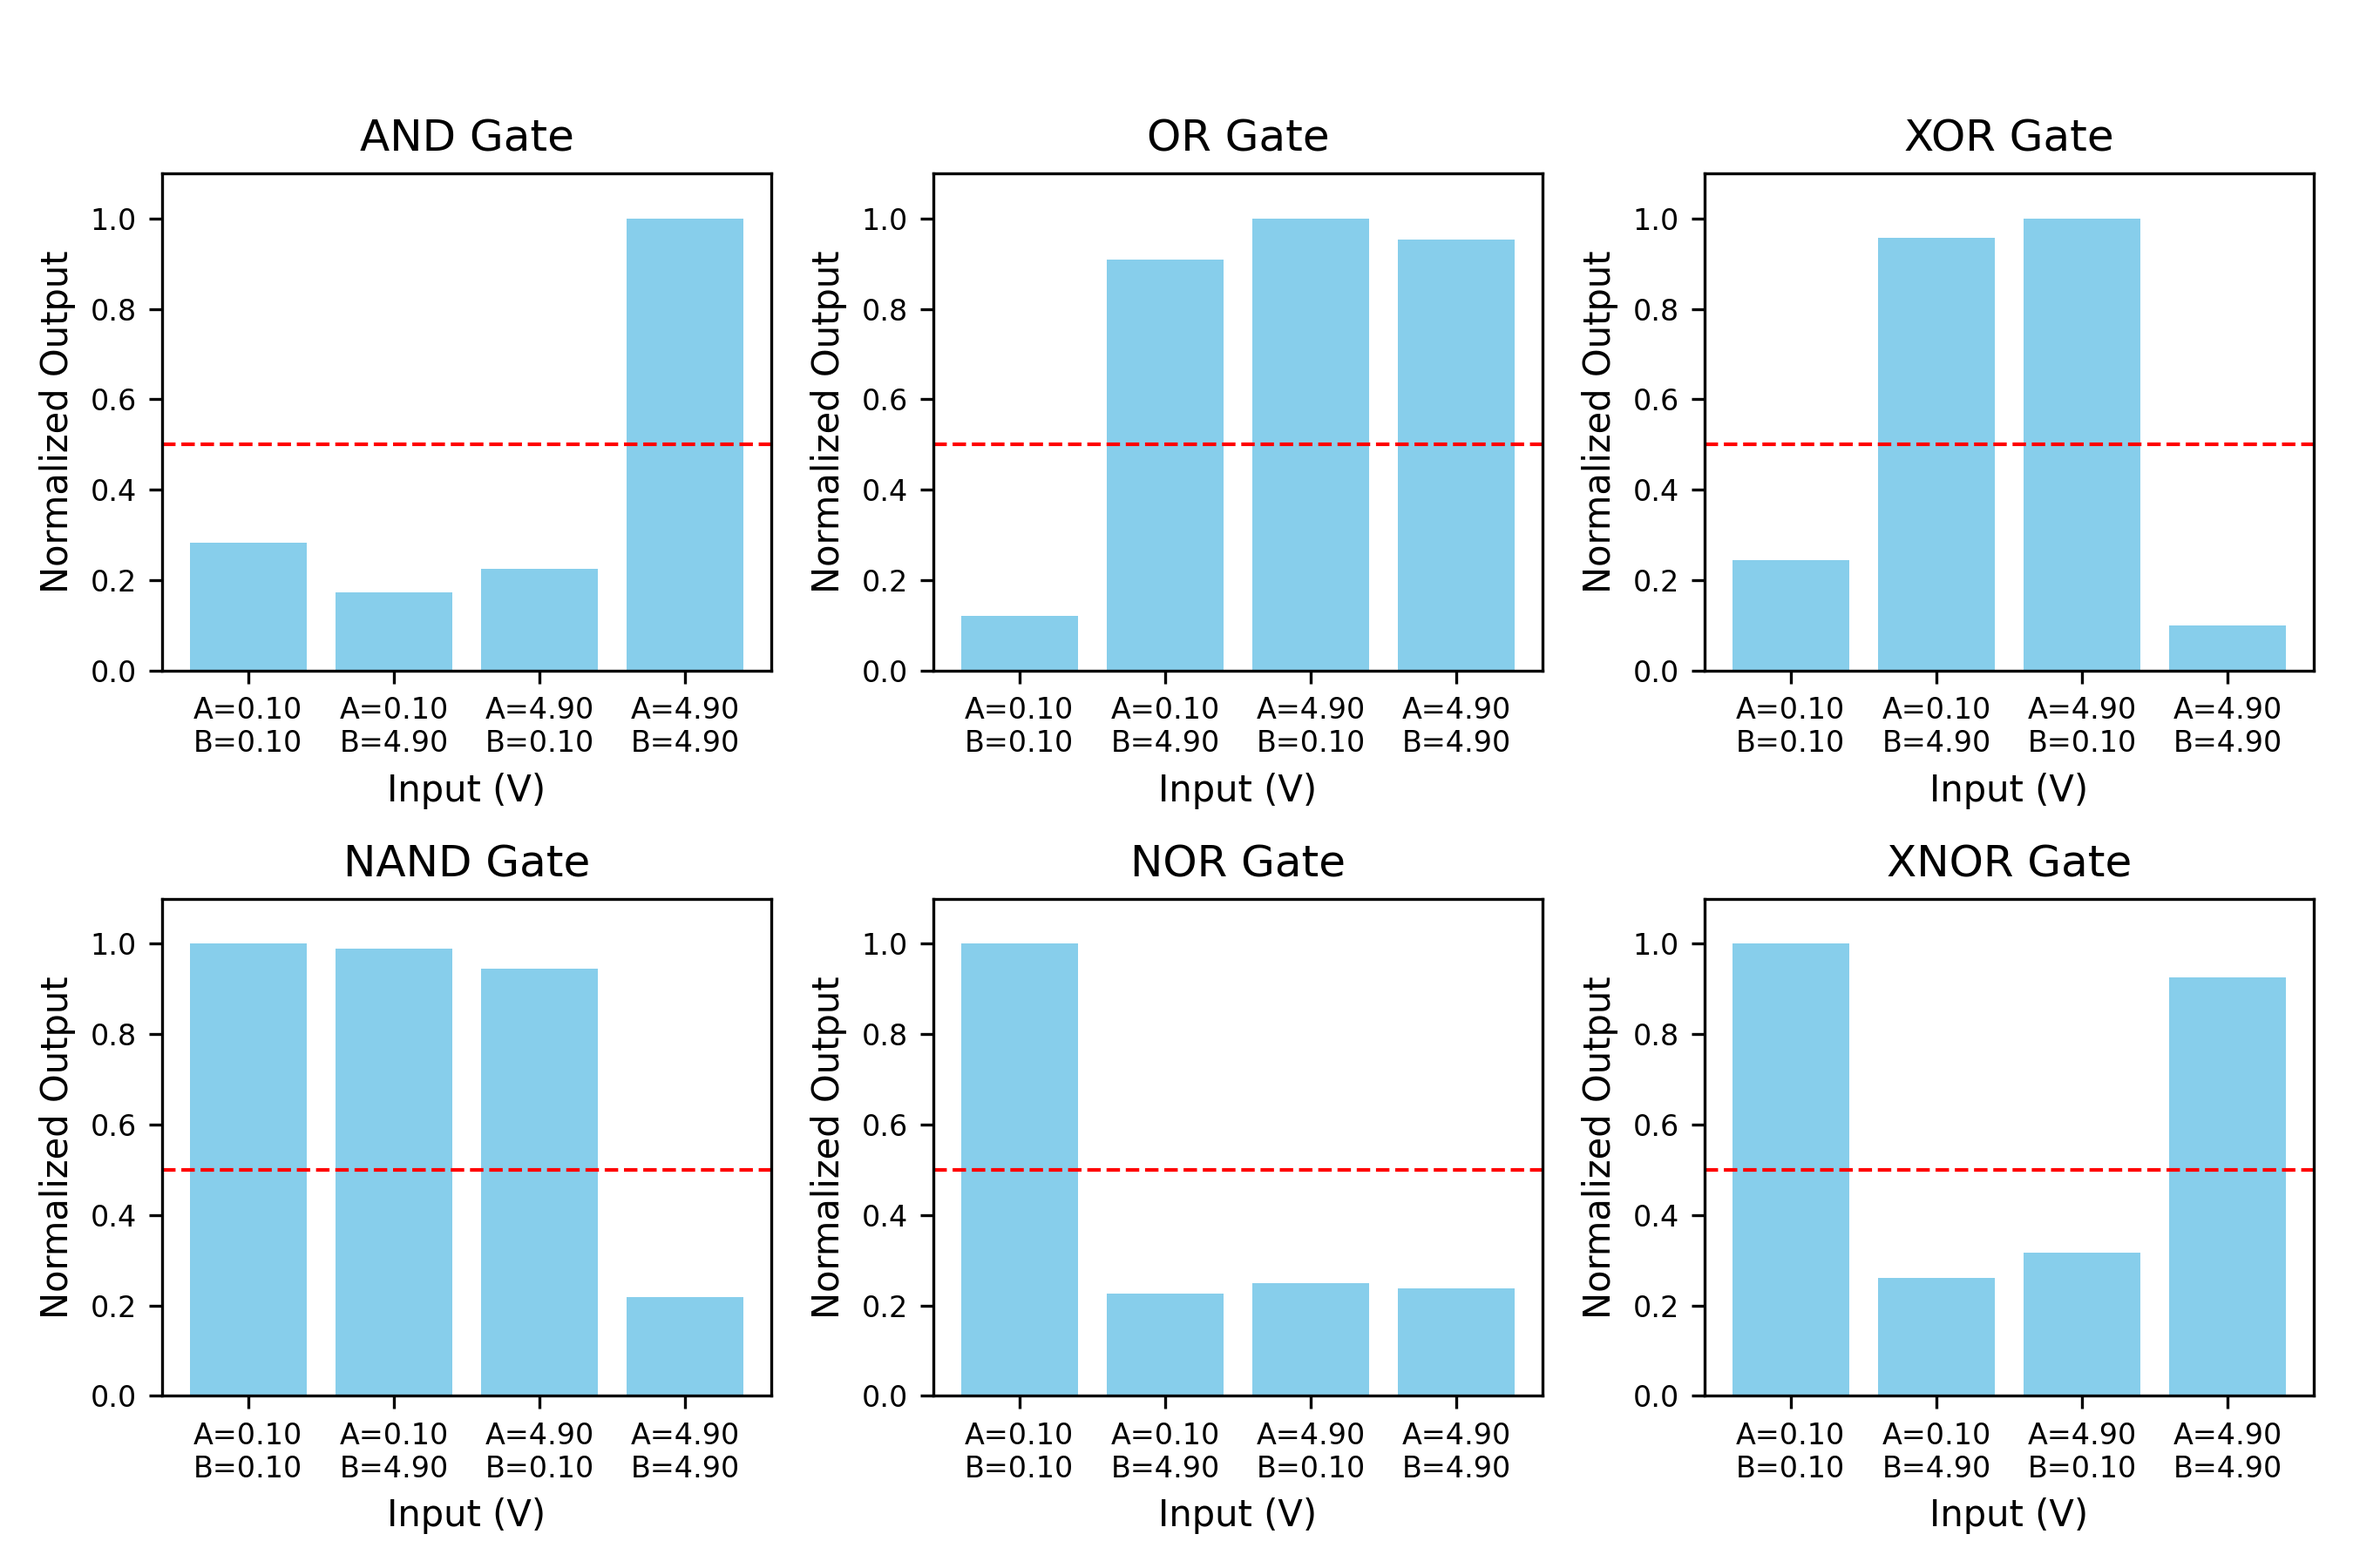
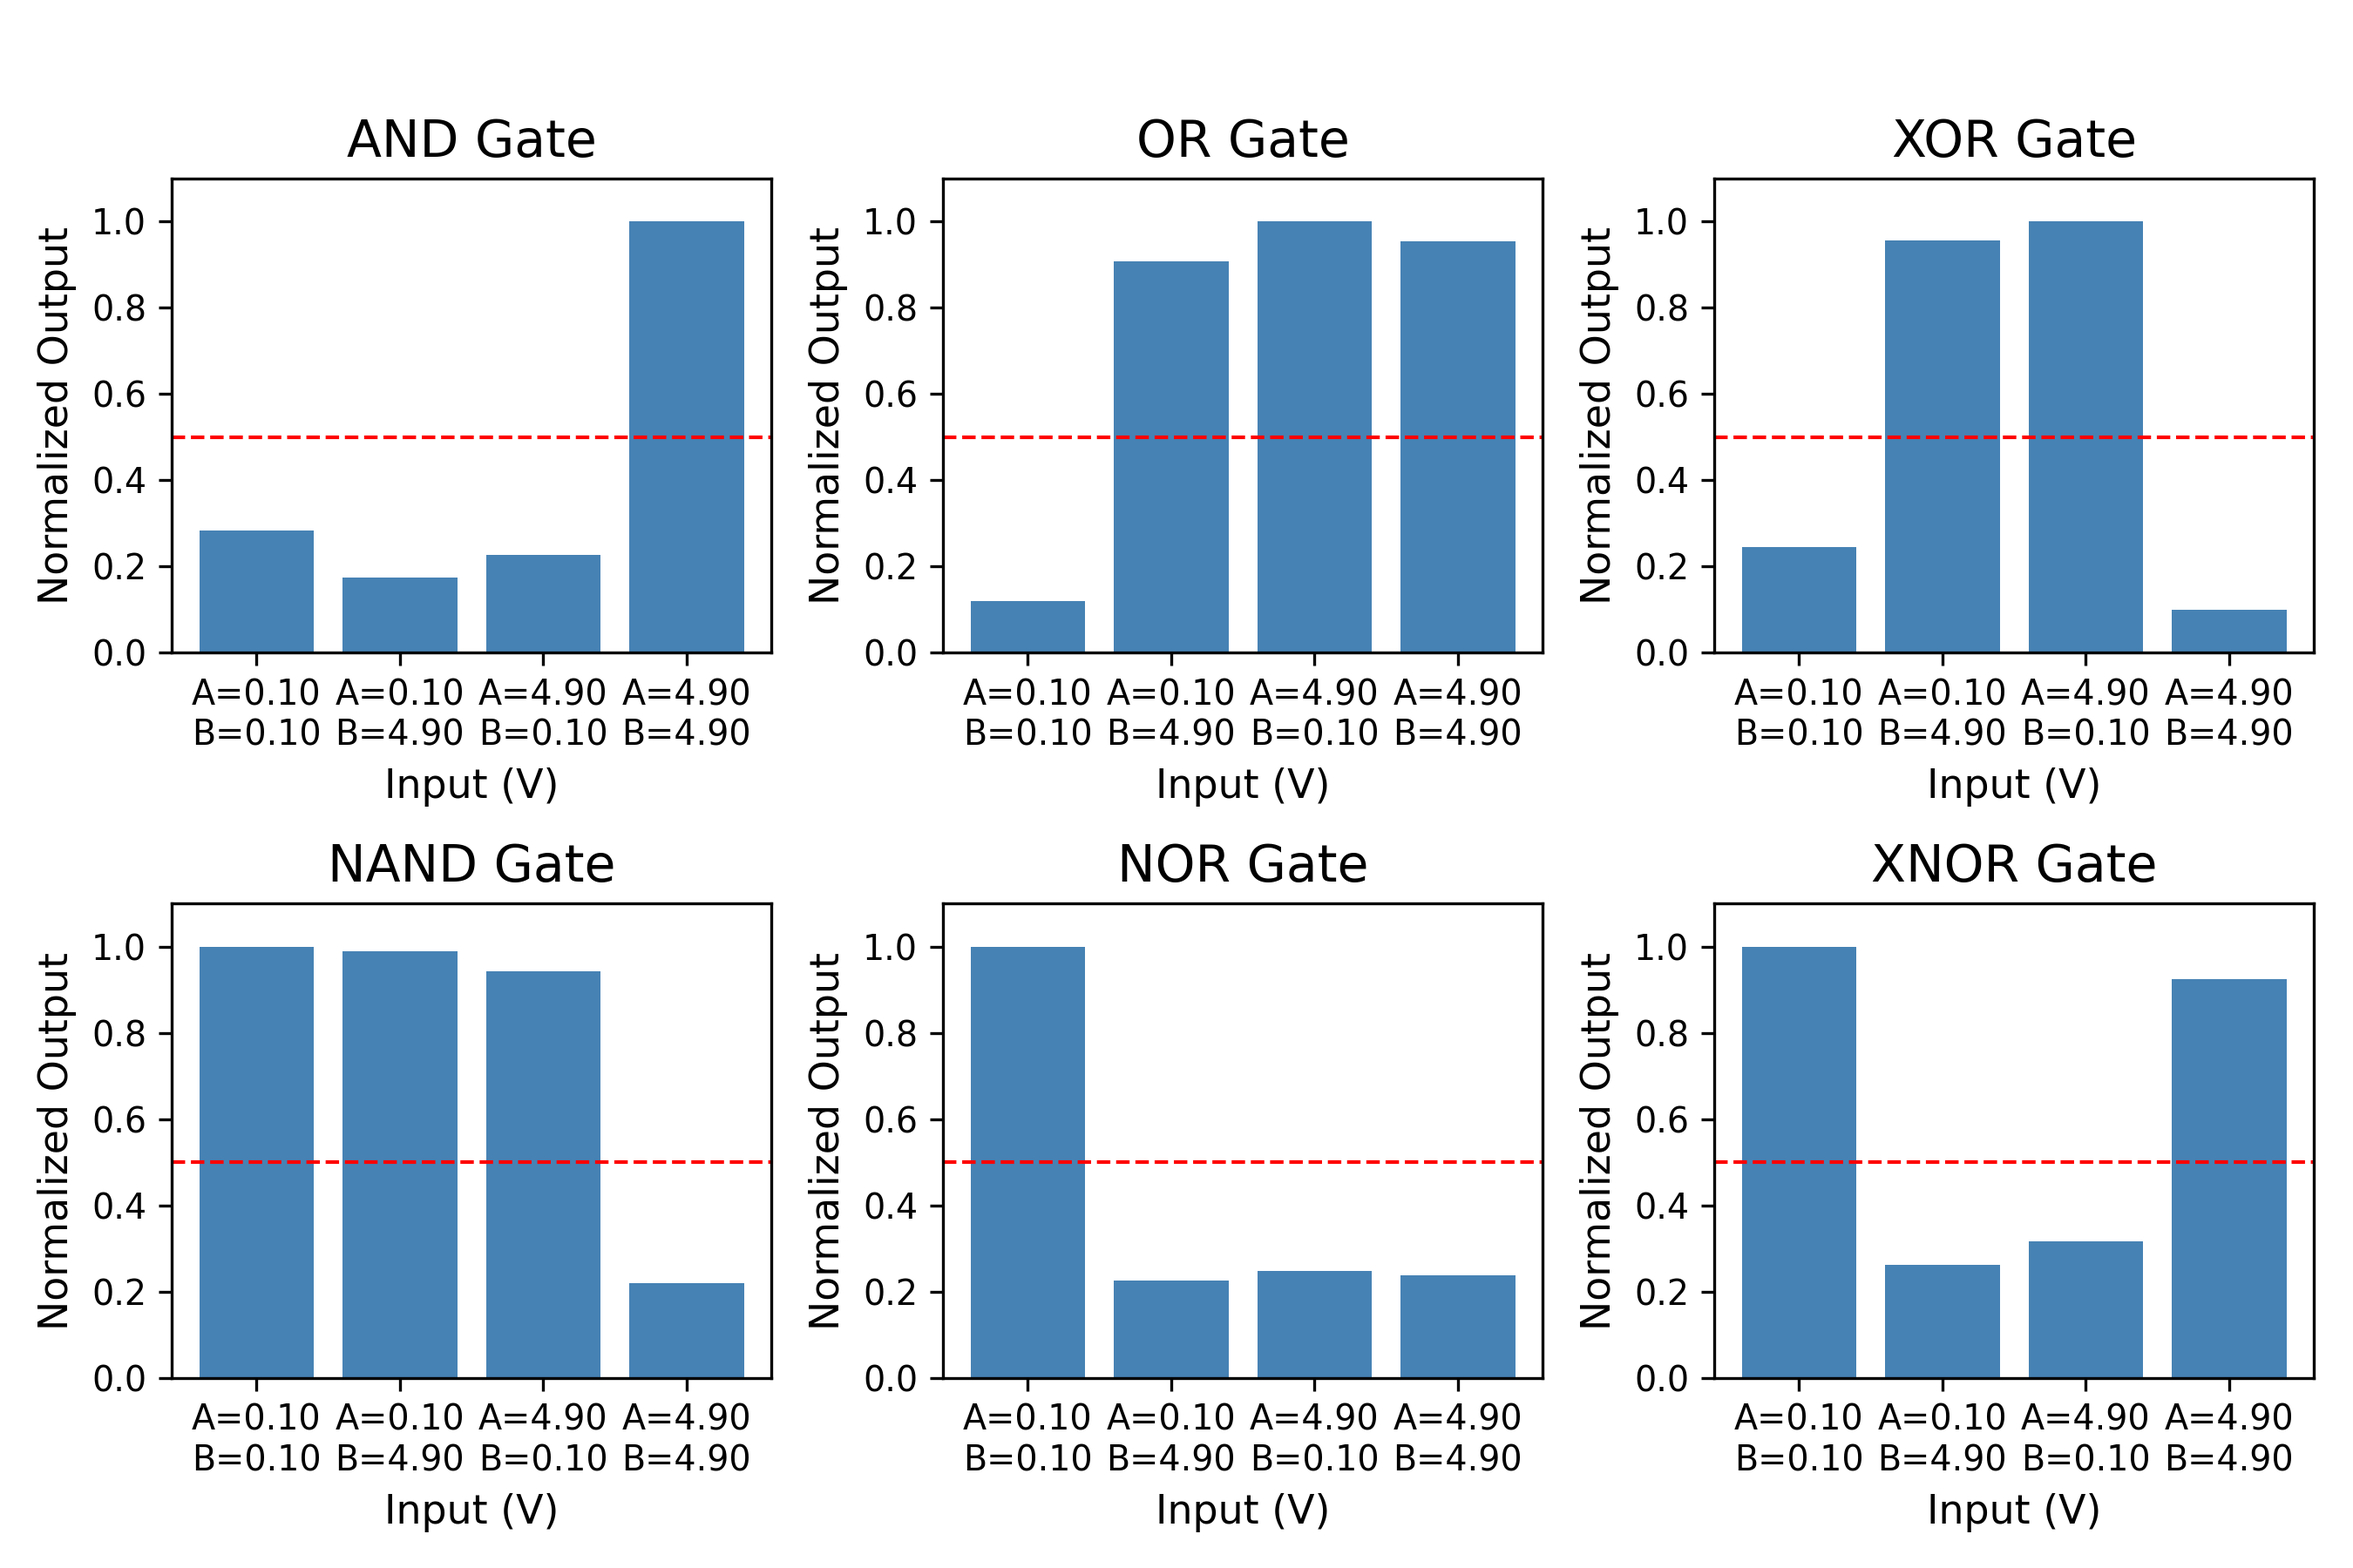
updating

Changed region(s): [[0.0, 0.0622, 0.9956, 0.9956]]

diff --git a/Gates/Figures/logic_gates_image.py b/Gates/Figures/logic_gates_image.py
@@ -21,13 +21,13 @@ axes = axes.flatten()
 # Plot
 for i, gate in enumerate(unique_gates):
     gate_df = df[df['Gate'] == gate]
-    axes[i].bar(gate_df['Label'], gate_df['Output'], color='skyblue')
-    axes[i].set_title(f"{gate} Gate", fontsize=12)
+    axes[i].bar(gate_df['Label'], gate_df['Output'], color='steelblue')
+    axes[i].set_title(f"{gate} Gate", fontsize=14)
     axes[i].set_ylim(0, 1.1)
-    axes[i].set_ylabel("Normalized Output", fontsize=10)
-    axes[i].set_xlabel("Input (V)", fontsize=10)
-    axes[i].tick_params(axis='x', labelsize=8)
-    axes[i].tick_params(axis='y', labelsize=8)
+    axes[i].set_ylabel("Normalized Output", fontsize=11)
+    axes[i].set_xlabel("Input (V)", fontsize=11)
+    axes[i].tick_params(axis='x', labelsize=9.5)
+    axes[i].tick_params(axis='y', labelsize=9.5)
     # Add threshold line
     axes[i].axhline(y=0.5, color='red', linestyle='--', linewidth=1)
 
